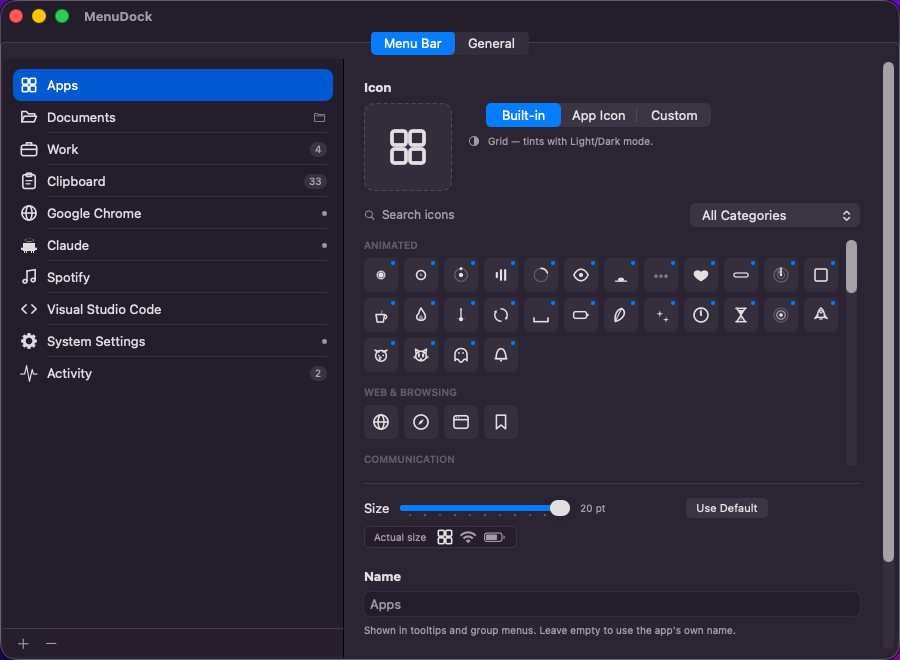
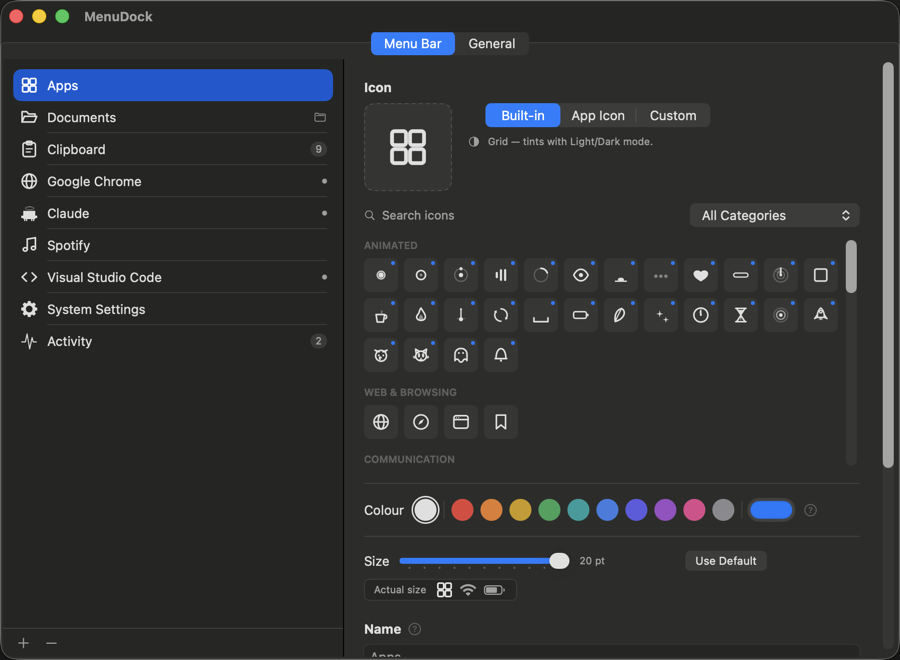
Reshoot the settings screenshot, and point the reference cask at 0.3.0
The README's settings shot still showed the paragraph under Name that moved
behind a ? this release, so it was advertising a pane the app no longer has.
Same window size and framing as before; the sidebar is the setup on this Mac.

The cask here is the master copy, not what Homebrew reads — bebarebears/homebrew-tap
is, and it is still on 0.1.0 because the auto-bump job is gated on a TAP_TOKEN
secret that has never been set. The sha256 is from the published DMG.

diff --git a/homebrew/Casks/menudock.rb b/homebrew/Casks/menudock.rb
@@ -1,6 +1,6 @@
 cask "menudock" do
-  version "0.2.0"
[1 lines of base64/hex data omitted]
+  version "0.3.0"
[1 lines of base64/hex data omitted]
 
   url "https://github.com/bebarebears/MenuDock/releases/download/v#{version}/MenuDock-#{version}.dmg"
   name "MenuDock"
